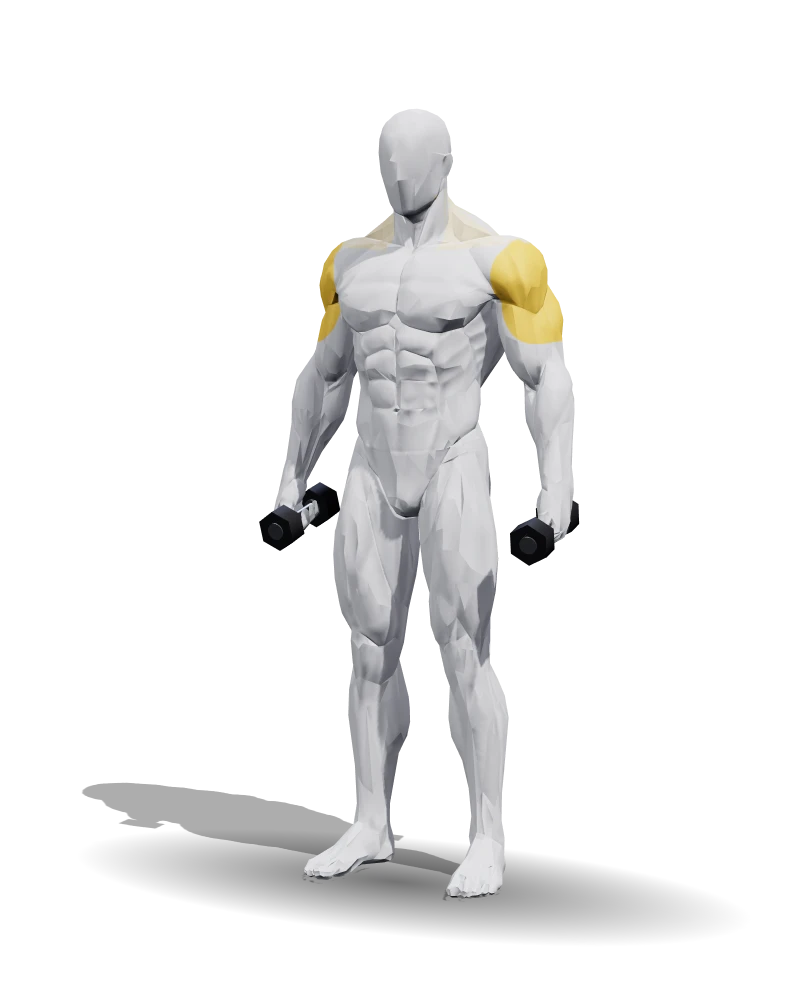
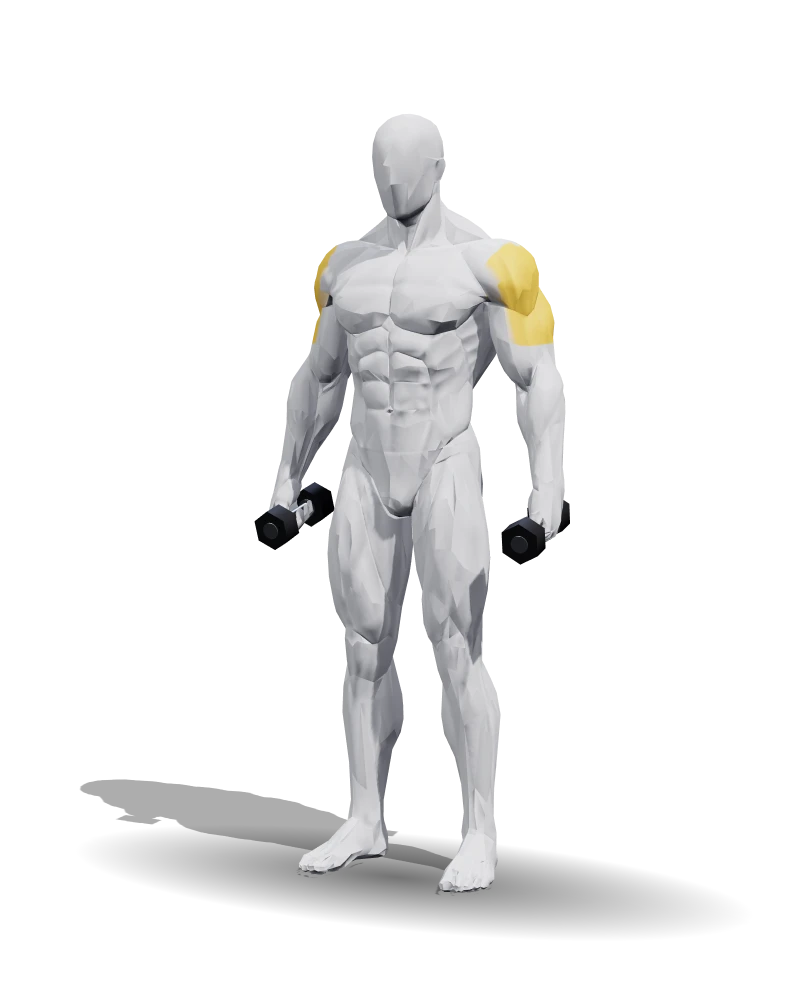
Hombro: la clavícula derecha subía al revés; color por lado y por cabeza del deltoides
- poser.js: el giro de elevación de la clavícula es -Z en los dos lados (el lado R bajaba el hombro al levantar el brazo y pellizcaba la malla); arranque suave desde 20°, tope 40°
- render.html: zonas por lado (posición de reposo del vértice) y por cabeza (lateral/anterior/posterior según la normal de reposo)
- elevaciones laterales: solo deltoides lateral, sin trapecio; la de polea solo en el brazo que tira
- regeneradas las imágenes

Claude-Session: https://claude.ai/code/session_01SVHok8e7aecmfUzWYS3Um1

Changed region(s): [[0.2812, 0.093, 0.75, 0.899], [0.0938, 0.775, 0.3125, 0.837], [0.3438, 0.775, 0.375, 0.806]]

diff --git a/herramientas/ejercicios3d/render.html b/herramientas/ejercicios3d/render.html
@@ -10,15 +10,30 @@ const sexo=M.startsWith('mujer')?'mujer':'hombre';
 const im=await new Promise(ok=>{const i=new Image();i.onload=()=>ok(i);i.onerror=()=>{const k=document.createElement('canvas');k.width=k.height=1;ok(k)};i.src='/public/models/zonas-'+M+'.png'}); // sin mapa de zonas (modelo nuevo): no se resalta nada
 const tex=new T.Texture(im);tex.flipY=false;tex.magFilter=tex.minFilter=T.NearestFilter;tex.generateMipmaps=false;tex.needsUpdate=true;
 const CL=['none','ne','sh','ch','bi','fo','ab','abd','qu','ad','ca','tp','mb','la','lb','tr','gl','ha'];
-const uCol=Array.from({length:18},()=>new T.Color(0,0,0)), uMix=new Float32Array(18);
-(EJ.zonas?.principales||[]).forEach(k=>{const i=CL.indexOf(k);if(i>0){uMix[i]=1;uCol[i].set('#F2BE1A')}});
-(EJ.zonas?.secundarias||[]).forEach(k=>{const i=CL.indexOf(k);if(i>0&&!uMix[i]){uMix[i]=.5;uCol[i].set('#F5D46A')}});
+// Zonas a resaltar. Cada entrada es "sh" (los dos lados, músculo entero) o un objeto/texto más preciso:
+//   {"zona":"sh","lado":"R","cabeza":"lateral"}  o  "sh.R:lateral"
+// lado: R / L del esqueleto (R = x > 0 del modelo). cabeza (solo deltoides, por ahora): lateral | anterior | posterior.
+// El lado NO sale del mapa de zonas sino de la posición de reposo del vértice (x > 0 → R), así no depende de cómo
+// se pintó cada mapa. La cabeza sale de hacia dónde mira la piel en reposo (normal): fuera, delante o detrás.
+const CABEZAS={lateral:1,anterior:2,posterior:3};
+const uCol=Array.from({length:36},()=>new T.Color(0,0,0)), uMix=new Float32Array(36), uCab=new Float32Array(36);
+const zona=(z)=>{if(typeof z==='string'){const m=z.match(/^(\w+)(?:\.(R|L))?(?::(\w+))?$/);z=m?{zona:m[1],lado:m[2],cabeza:m[3]}:{zona:z}}return z};
+function marcar(lista,mix,col){for(const e of lista||[]){const z=zona(e),i=CL.indexOf(z.zona);if(i<=0)continue;
+ for(const l of z.lado?[z.lado]:['R','L']){const k=i*2+(l==='R'?0:1);if(uMix[k]>=mix)continue;uMix[k]=mix;uCol[k].set(col);uCab[k]=CABEZAS[z.cabeza]||0}}}
+marcar(EJ.zonas?.principales,1,'#F2BE1A'); marcar(EJ.zonas?.secundarias,.5,'#F5D46A');
 const piel=c.malla.material.clone(); piel.color.setRGB(.74,.74,.76); piel.roughness=.58; if(piel.normalScale) piel.normalScale.set(.85,.85); // conserva el mapa de normales (relieve muscular)
-piel.onBeforeCompile=sh=>{sh.uniforms.tZ={value:tex};sh.uniforms.uCol={value:uCol};sh.uniforms.uMix={value:uMix};
- sh.vertexShader=sh.vertexShader.replace('#include <common>','#include <common>\nvarying vec2 vZ;').replace('#include <begin_vertex>','#include <begin_vertex>\nvZ = uv;');
- sh.fragmentShader=sh.fragmentShader.replace('#include <common>','#include <common>\nvarying vec2 vZ; uniform sampler2D tZ; uniform vec3 uCol[18]; uniform float uMix[18];')
+piel.onBeforeCompile=sh=>{sh.uniforms.tZ={value:tex};sh.uniforms.uCol={value:uCol};sh.uniforms.uMix={value:uMix};sh.uniforms.uCab={value:uCab};
+ sh.vertexShader=sh.vertexShader.replace('#include <common>','#include <common>\nvarying vec2 vZ; varying vec3 vPR; varying vec3 vNR;')
+  .replace('#include <beginnormal_vertex>','#include <beginnormal_vertex>\nvNR = objectNormal;')
+  .replace('#include <begin_vertex>','#include <begin_vertex>\nvZ = uv; vPR = transformed;');
+ sh.fragmentShader=sh.fragmentShader.replace('#include <common>','#include <common>\nvarying vec2 vZ; varying vec3 vPR; varying vec3 vNR; uniform sampler2D tZ; uniform vec3 uCol[36]; uniform float uMix[36]; uniform float uCab[36];')
  .replace('#include <color_fragment>',`#include <color_fragment>
- int zid = int(floor(texture2D(tZ, vZ).r * 255.0 + 0.5)) / 2; vec3 fc = uCol[zid]; float fm = uMix[zid];
+ int mus = int(floor(texture2D(tZ, vZ).r * 255.0 + 0.5)) / 2; float sg = vPR.x > 0.0 ? 1.0 : -1.0;
+ int k = mus * 2 + (vPR.x > 0.0 ? 0 : 1); vec3 fc = uCol[k]; float fm = uMix[k]; float cab = uCab[k];
+ vec3 nr = normalize(vNR);
+ if (cab > 0.5 && cab < 1.5) fm *= smoothstep(0.0, 0.40, nr.x * sg + 0.35 * max(nr.y, 0.0)) * (1.0 - smoothstep(0.72, 0.95, abs(nr.z)));
+ else if (cab > 1.5 && cab < 2.5) fm *= smoothstep(0.30, 0.65, nr.z);
+ else if (cab > 2.5) fm *= smoothstep(0.30, 0.65, -nr.z);
  vec3 tint = fc * (0.5 + 0.9 * dot(diffuseColor.rgb, vec3(0.2126, 0.7152, 0.0722))); diffuseColor.rgb = mix(diffuseColor.rgb, tint, fm * 0.92);`);};
 c.malla.material=piel; c.malla.castShadow=c.malla.receiveShadow=true;
 // ---- utilidades sobre la malla posada ----

diff --git a/herramientas/ejercicios3d/poser.js b/herramientas/ejercicios3d/poser.js
@@ -133,9 +133,13 @@ export function poseLocal(c, pose) {
     const dl = V(d.x, -d.y, -d.z);
     const sw = new T.Quaternion().setFromUnitVectors(V(0, 1, 0), dl.normalize());
     mul('upper_arm.' + l, sw.multiply(rot(Y1, s * (h.rot ?? 0))));
-    // ritmo escapulohumeral: la clavícula sube al pasar de 30° (≈1/3 del exceso)
-    const el = Math.max(0, (h.elev ?? 8) - 30) * (h.ritmo ?? 0.28);
-    mul('shoulder.' + l, rot(Z1, s * el));
+    // ritmo escapulohumeral: la clavícula acompaña al húmero (sube ≈1° por cada 3–4° de elevación pasados ~20°).
+    // La elevación del brazo NO se suma a la de la clavícula (el húmero se orienta respecto al tórax), solo
+    // sube la cabeza del húmero, que es lo que evita que el hombro se pellizque.
+    // Ojo con el signo: en el marco de la clavícula el giro de elevación es -Z en los DOS lados
+    // (antes se usaba s·el y la clavícula derecha bajaba en vez de subir).
+    const ex = Math.max(0, (h.elev ?? 8) - 20), el = Math.min(40, ex * ex / (ex + 15) * (h.ritmo ?? 0.3));
+    mul('shoulder.' + l, rot(Z1, -el));
     const co = espejo(pose.codo, l) || {};
     mul('forearm.' + l, rot(X1, -(co.flex ?? 5)).multiply(rot(Y1, -s * (co.pron ?? 0) * 0.5)));
     const mu = espejo(pose.muneca, l) || {};

diff --git a/herramientas/ejercicios3d/README.md b/herramientas/ejercicios3d/README.md
@@ -60,6 +60,17 @@ Equipo disponible: `mancuerna` (`manos: ["R","L"]`), `polea` (`mano`, `torre: [x
 
 `ejercicios/prueba-poses.json` es una hoja de pruebas (sentadilla, peso muerto, remo, press, curl, zancada, plancha) para comprobar que el esqueleto aguanta otros movimientos: `node herramientas/ejercicios3d/render.mjs prueba-poses`.
 
+## Zonas resaltadas: lado y cabeza
+
+`"zonas": {"principales": [...], "secundarias": [...]}`. Cada entrada puede ser:
+- `"sh"`: el músculo entero, en los dos lados.
+- `{"zona": "sh", "lado": "R"}` (o `"sh.R"`): solo ese lado. **En ejercicios a una mano, pon el mismo lado que `"mano"` del equipo.** R/L son los del esqueleto (R = x > 0 del modelo); el lado se decide por la posición del vértice, no por el mapa de zonas.
+- `{"zona": "sh", "cabeza": "lateral"}` (o `"sh:lateral"`, `"sh.R:lateral"`): solo una parte del músculo según hacia dónde mira la piel en reposo: `lateral` (fuera y arriba), `anterior` (delante) o `posterior` (detrás). Pensado para el deltoides; sirve para otros músculos con caras claras.
+
+## Hombro: ritmo escapulohumeral
+
+`poser.js` sube la clavícula con el brazo (`ritmo`, 0,3 por defecto): empieza suave a partir de 20° de elevación, ≈13° a 90° y como máximo 40°. El húmero se orienta respecto al tórax, así que el brazo queda en el ángulo pedido; lo que sube es la cabeza del húmero (≈7 cm a 90°), y eso evita que el hombro se pellizque. El giro de elevación de la clavícula es −Z en su marco en **los dos lados** (hasta el 17-11 el lado R usaba el signo contrario y su hombro bajaba al levantar el brazo). `"hombro": {"elev": 90, "ritmo": 0}` lo desactiva.
+
 ## Límites conocidos
 
 - Las mallas son de baja resolución (~5.000 triángulos): en flexiones extremas (cadera > 100°, brazo por encima de la cabeza) se ven algunos pliegues en axila e ingle.
